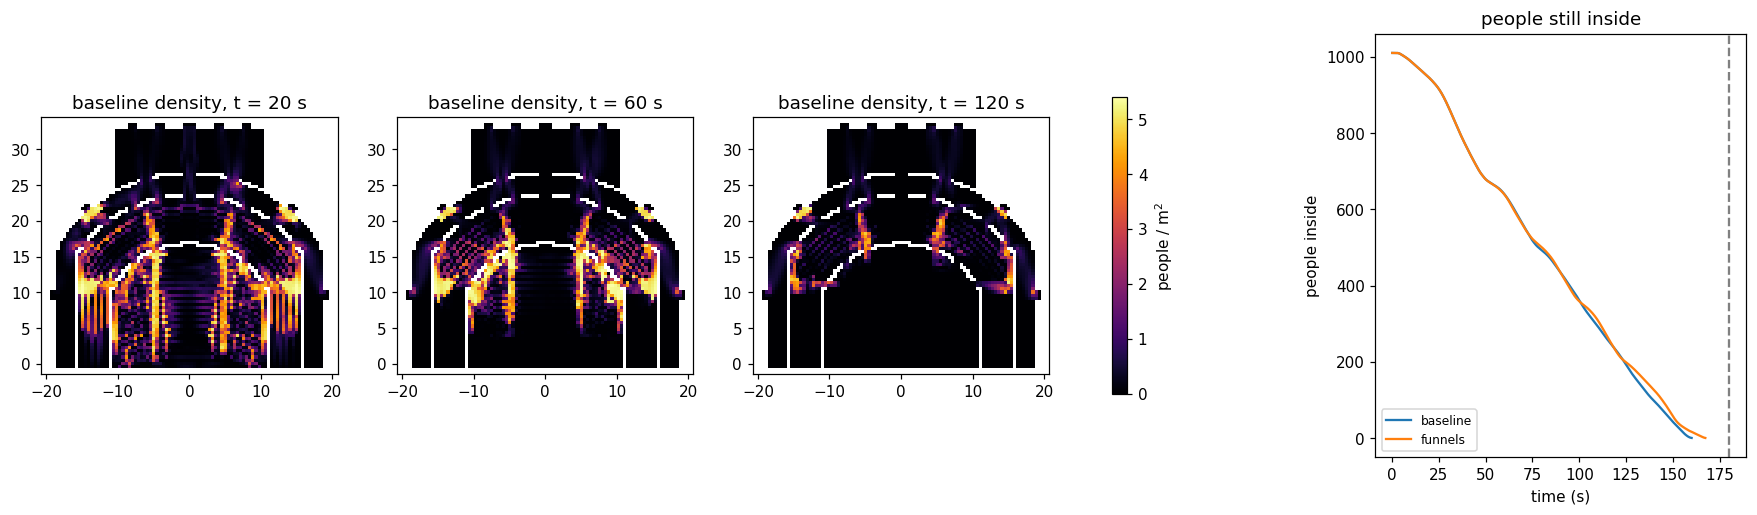
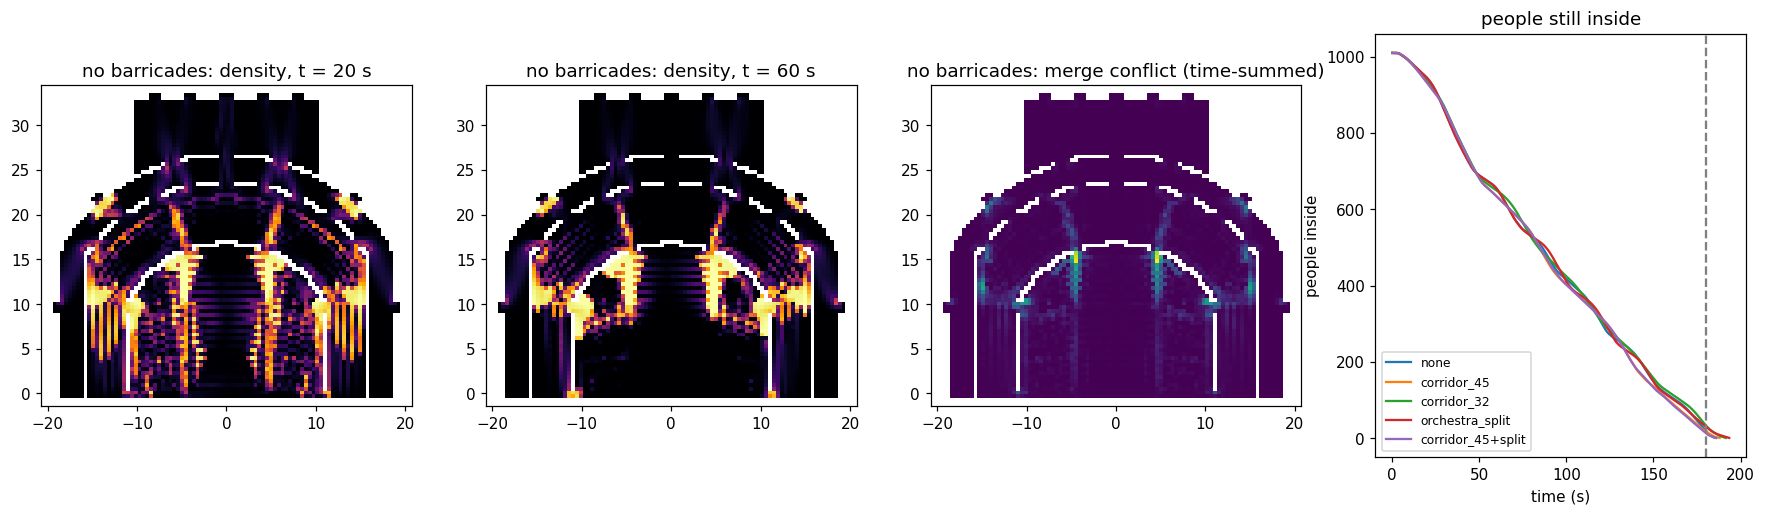
Continuous model: measured access points, stair clogging, merge penalty, barricade layouts
- 6 access points measured from the seating chart (aisle tops, corner stairs, stage steps)
- access points limited by stair capacity with clogging instead of walking speed
- walking speed drops where streams merge or cross
- named barricade layouts in building.py, compared across clogging settings
- per-opening throughput tracking

diff --git a/continuous/continuum.py b/continuous/continuum.py
@@ -9,22 +9,26 @@ The crowd is a density rho(x, t) in people/m^2 that obeys
     |grad phi| = 1 / v_eik(rho, x),  phi = 0 outside   (phi = time to get out)
     d = -grad phi / |grad phi|                  (everyone walks the fastest route)
 
-Crowding enters in three places:
+Crowding enters in four places:
   1. Speed falls with density, separately for each cell type (Greenshields):
-         q(rho) = vf * rho * (1 - rho/RHO_MAX),   vf = V_FREE * T(type)
-     T is the traversability field from the CA (aisle 1.0, legroom 0.8, ...).
+         q(rho) = vf * rho * (1 - rho/RHO_MAX),   vf = V_FREE * T(type) * (1 - merge loss)
+     T is the traversability field from the CA (aisle 1.0, legroom 0.8, seat 0.1).
   2. Flow between two cells is min(demand of the sender, supply of the receiver)
      (Godunov / cell-transmission form). A packed aisle has little supply, so it is
      hard to enter; a packed legroom row has its demand capped, so it empties slowly.
-  3. Every opening (door or access point) passes at most DOOR_FLOW * width people/s.
-     That capacity drops when the crowd in front of it is packed AND has to squeeze in
-     from a wider area (clogging):
-         capacity = DOOR_FLOW * width * (1 - JAM_DROP * jam * squeeze)
+  3. Every opening passes at most FLOW * width people/s (DOOR_FLOW for doors,
+     STAIR_FLOW for the access-point steps). Capacity drops when the crowd in front is
+     packed AND has to squeeze in from a wider area (clogging):
+         capacity = FLOW * width * (1 - JAM_DROP * jam * squeeze)
          jam     = how far the density in front is above critical, 0..1
          squeeze = 1 - width / (width of open floor 2 cells upstream), 0..1
-     Funnel barriers lower `squeeze`. This clogging law is an assumption; JAM_DROP is
-     varied in the output because the benefit of funnels depends on it.
+  4. Merging / crossing streams: where people converge from different directions, the
+     local walking speed drops by up to MERGE_LOSS:
+         merge loss = MERGE_LOSS * (1 - |average direction|)   where streams converge
+     |average direction| (density-weighted over 3x3 cells) is 1 when everyone walks the
+     same way and 0 when streams meet head-on. Barricades help by keeping streams apart.
 
+JAM_DROP and MERGE_LOSS are assumptions; the output varies them.
 The grid is only the numerical mesh: halving DT should barely change results.
 
 Run:  python continuum.py            -> table of egress times, writes egress.png
@@ -40,21 +44,26 @@ from scipy import ndimage
 
 sys.dont_write_bytecode = True
 sys.path.insert(0, str(Path(__file__).resolve().parent.parent))
-from bailey_grid import AISLE, EXIT, LEGROOM, SEAT, WALL      # noqa: E402
-from traversability_field import traversability_field        # noqa: E402
-from building import OUT, build_building                      # noqa: E402
+from bailey_grid import ACCESS, AISLE, EXIT, LEGROOM, SEAT, WALL     # noqa: E402
+from traversability_field import TRAVERSABILITY, traversability_field  # noqa: E402
+from building import BARRICADES, OUT, build_building                   # noqa: E402
 
 # ----------------------------------------------------------------------------
 # PARAMETERS
 # ----------------------------------------------------------------------------
 V_FREE = 1.3        # m/s, free walking speed (Weidmann 1993: 1.34)
 RHO_MAX = 5.4       # people/m^2, jam density (Weidmann 1993)
-DOOR_FLOW = 1.3     # people/(m s), specific flow through an opening (SFPE handbook)
-JAM_DROP = 0.3      # max fraction of capacity lost to clogging
+DOOR_FLOW = 1.3     # people/(m s), specific flow through a door (SFPE handbook)
+STAIR_FLOW = 1.0    # people/(m s), specific flow on stairs (SFPE handbook)
+JAM_DROP = 0.3      # max fraction of an opening's capacity lost to clogging
+MERGE_LOSS = 0.3    # max fraction of walking speed lost where streams meet head-on
 V_EIK_MIN = 0.1     # route planning: a jammed cell still costs finite time
-PHI_EVERY = 1.0     # s, how often people re-plan (recompute phi)
+PHI_EVERY = 1.0     # s, how often people re-plan (recompute phi and merge loss)
 T_END = 900.0       # s, give up after this
 DONE = 0.5          # people left inside when we call it evacuated
+
+# access points are slow because of their capacity (STAIR_FLOW), not their walking speed
+T_VALUES = {**TRAVERSABILITY, ACCESS: 1.0}
 
 RHO_C = RHO_MAX / 2                       # critical density (max flow)
 DIRS = [(0, 1), (0, -1), (1, 0), (-1, 0)]  # (dy, dx): east, west, north, south
@@ -97,40 +106,58 @@ def directions(phi):
             np.maximum(gy, 0) / norm, np.maximum(-gy, 0) / norm]
 
 
+def merge_conflict(rho, dirs):
+    """0..1: how much streams meet from different directions (only where they converge)."""
+    ux, uy = dirs[0] - dirs[1], dirs[2] - dirs[3]
+    mx = ndimage.uniform_filter(rho * ux, 3)
+    my = ndimage.uniform_filter(rho * uy, 3)
+    m = ndimage.uniform_filter(rho, 3)
+    order = np.hypot(mx, my) / np.maximum(m, 1e-9)
+    converging = (np.gradient(ux, axis=1) + np.gradient(uy, axis=0)) < 0
+    return np.where((m > 1e-3) & converging, np.clip(1 - order, 0, 1), 0.0)
+
+
 def opening_fronts(b, vf):
-    """For each opening: the floor in front of it (upstream, within 2 cells) and the
-    squeeze factor 1 - width / width of open floor 2 cells upstream."""
+    """For each opening: its flow per metre, the floor in front of it (upstream, within
+    2 cells), and the squeeze factor 1 - width / width of open floor 2 cells upstream."""
     phi = travel_time(vf, b)
     floor = np.isin(b["grid"], [AISLE, LEGROOM, SEAT])
     out = []
     for mask, width in b["openings"]:
+        flow = STAIR_FLOW if (b["grid"][mask] == ACCESS).all() else DOOR_FLOW
         up = floor & (phi > phi[mask].max())
         d1 = ndimage.binary_dilation(mask, SQ)
         d2 = ndimage.binary_dilation(d1, SQ)
         ring2 = d2 & ~d1 & up
         squeeze = np.clip(1 - width / max(ring2.sum() * b["cell"], 1e-9), 0, 1)
-        out.append((mask, width, d2 & up, squeeze))
+        out.append((mask, flow * width, d2 & up, squeeze))
     return out
 
 
-def simulate(funnels=False, dt=None, jam_drop=JAM_DROP):
-    b = build_building(funnels)
+def simulate(barricades="none", dt=None, jam_drop=JAM_DROP, merge_loss=MERGE_LOSS):
+    b = build_building(barricades)
     grid, cell = b["grid"], b["cell"]
     assert (grid[[0, -1], :] == WALL).all() and (grid[:, [0, -1]] == WALL).all()
     dt = dt or 0.5 * cell / V_FREE                     # CFL condition
 
-    vf = V_FREE * traversability_field(np.minimum(grid, EXIT))   # doors/outside = 1.0
+    vf0 = V_FREE * traversability_field(np.minimum(grid, EXIT), T_VALUES)  # doors/outside = 1
     out_ = grid == OUT
-    fronts = opening_fronts(b, vf)
+    fronts = opening_fronts(b, vf0)
 
     rho = initial_density(b)
     total = rho.sum() * cell**2
-    assert np.isfinite(travel_time(vf, b)[rho > 0]).all(), "someone is walled in"
+    assert np.isfinite(travel_time(vf0, b)[rho > 0]).all(), "someone is walled in"
     t, out, t_phi, history, snaps = 0.0, 0.0, -np.inf, [], {}
+    merge_map = np.zeros(grid.shape)
+    through = np.zeros(len(fronts))                    # people through each opening
+    last_used = np.zeros(len(fronts))                  # s, last time each carried 0.1 p/s
 
     while t < T_END and total - out > DONE:
         if t - t_phi >= PHI_EVERY - 1e-9:              # re-plan routes
-            dirs = directions(travel_time(vf * np.maximum(1 - rho / RHO_MAX, V_EIK_MIN), b))
+            dirs = directions(travel_time(vf0 * np.maximum(1 - rho / RHO_MAX, V_EIK_MIN), b))
+            conflict = merge_conflict(rho, dirs)
+            vf = vf0 * (1 - merge_loss * conflict)
+            merge_map += conflict * rho * PHI_EVERY
             t_phi = t
 
         demand = vf * np.minimum(rho, RHO_C) * (1 - np.minimum(rho, RHO_C) / RHO_MAX)
@@ -142,14 +169,17 @@ def simulate(funnels=False, dt=None, jam_drop=JAM_DROP):
                  for c, (dy, dx) in zip(dirs, DIRS)]
 
         # capacity of each opening, reduced by clogging
-        for mask, width, front, squeeze in fronts:
+        for k, (mask, full_cap, front, squeeze) in enumerate(fronts):
             jam = np.clip((rho[front].mean() - RHO_C) / (RHO_MAX - RHO_C), 0, 1)
-            cap = DOOR_FLOW * width * (1 - jam_drop * jam * squeeze) * dt
+            cap = full_cap * (1 - jam_drop * jam * squeeze) * dt
             entering = [nb(mask, dy, dx) & ~mask for dy, dx in DIRS]
             wanted = sum(f[e].sum() for f, e in zip(flows, entering))
             if wanted > cap:
                 for f, e in zip(flows, entering):
                     f[e] *= cap / wanted
+            through[k] += min(wanted, cap)
+            if min(wanted, cap) > 0.1 * dt:
+                last_used[k] = t
 
         # never send out more people than a cell holds
         sent = sum(flows) / cell**2
@@ -164,12 +194,12 @@ def simulate(funnels=False, dt=None, jam_drop=JAM_DROP):
         t += dt
 
         history.append((t, total - out, rho.max()))
-        for ts in (20, 60, 120):
+        for ts in (20, 60):
             if ts not in snaps and t >= ts:
                 snaps[ts] = rho.copy()
 
     return dict(b=b, history=np.array(history), snaps=snaps, total=total, dt=dt,
-                squeeze=[f[3] for f in fronts])
+                merge_map=merge_map, through=through, last_used=last_used)
 
 
 def summary(r):
@@ -185,15 +215,17 @@ def plot(runs, path=Path(__file__).with_name("egress.png")):
     matplotlib.use("Agg")
     import matplotlib.pyplot as plt
 
-    r0 = runs["baseline"]
+    r0 = runs["none"]
     b, c = r0["b"], r0["b"]["cell"]
     ext = [b["xs"][0] - c / 2, b["xs"][-1] + c / 2, b["ys"][0] - c / 2, b["ys"][-1] + c / 2]
-    fig, axs = plt.subplots(1, len(r0["snaps"]) + 1, figsize=(5 * (len(r0["snaps"]) + 1), 5))
-    for ax, (ts, rho) in zip(axs, r0["snaps"].items()):
-        im = ax.imshow(np.ma.masked_where(b["grid"] == WALL, rho), origin="lower",
-                       extent=ext, cmap="inferno", vmin=0, vmax=RHO_MAX)
-        ax.set_title(f"baseline density, t = {ts} s"); ax.set_aspect("equal")
-    fig.colorbar(im, ax=axs[:-1], shrink=0.7, label="people / m$^2$")
+    walls = b["grid"] == WALL
+    panels = [(f"density, t = {ts} s", rho, "inferno", RHO_MAX) for ts, rho in r0["snaps"].items()]
+    panels.append(("merge conflict (time-summed)", r0["merge_map"], "viridis", None))
+    fig, axs = plt.subplots(1, len(panels) + 1, figsize=(5 * (len(panels) + 1), 5))
+    for ax, (title, a, cmap, vmax) in zip(axs, panels):
+        ax.imshow(np.ma.masked_where(walls, a), origin="lower", extent=ext, cmap=cmap,
+                  vmin=0, vmax=vmax)
+        ax.set_title(f"no barricades: {title}"); ax.set_aspect("equal")
     for name, r in runs.items():
         axs[-1].plot(r["history"][:, 0], r["history"][:, 1], label=name)
     axs[-1].axvline(180, ls="--", c="gray")
@@ -204,17 +236,18 @@ def plot(runs, path=Path(__file__).with_name("egress.png")):
 
 if __name__ == "__main__":
     runs = {}
-    print(f"{'run':28s} {'50% out':>8s} {'90% out':>8s} {'all out':>8s} {'peak rho':>9s}")
-    for jd in (0.0, JAM_DROP, 0.6):
-        for funnels in (False, True):
-            name = f"{'funnels' if funnels else 'baseline'}, JAM_DROP={jd}"
-            r = simulate(funnels, jam_drop=jd)
-            print(f"{name:28s} " + "{:7.0f}s {:7.0f}s {:7.0f}s {:9.2f}".format(*summary(r)))
-            if jd == JAM_DROP:
-                runs["funnels" if funnels else "baseline"] = r
-    print("access-point squeeze, baseline:", np.round(runs["baseline"]["squeeze"][9:15], 2))
-    print("access-point squeeze, funnels: ", np.round(runs["funnels"]["squeeze"][9:15], 2))
+    settings = [(0.0, 0.0), (JAM_DROP, MERGE_LOSS), (0.6, 0.6)]
+    print(f"{'barricades':14s} {'JAM_DROP':>8s} {'MERGE_LOSS':>10s} "
+          f"{'50% out':>8s} {'90% out':>8s} {'all out':>8s} {'peak rho':>9s}")
+    for jd, ml in settings:
+        for name in BARRICADES:
+            r = simulate(name, jam_drop=jd, merge_loss=ml)
+            print(f"{name:14s} {jd:8.1f} {ml:10.1f} "
+                  + "{:7.0f}s {:7.0f}s {:7.0f}s {:9.2f}".format(*summary(r)))
+            if (jd, ml) == (JAM_DROP, MERGE_LOSS):
+                runs[name] = r
     plot(runs)
     if "--dt-check" in sys.argv:
-        r = simulate(dt=runs["baseline"]["dt"] / 2)
-        print(f"{'baseline at dt/2':28s} " + "{:7.0f}s {:7.0f}s {:7.0f}s {:9.2f}".format(*summary(r)))
+        r = simulate(dt=runs["none"]["dt"] / 2)
+        print(f"{'none, dt/2':14s} {JAM_DROP:8.1f} {MERGE_LOSS:10.1f} "
+              + "{:7.0f}s {:7.0f}s {:7.0f}s {:9.2f}".format(*summary(r)))

diff --git a/continuous/building.py b/continuous/building.py
@@ -13,13 +13,13 @@ because the model caps the flow through each one (see continuum.py).
 All corridor, foyer and door dimensions below are rough estimates read off the
 first-floor plan (scale from the 31 m auditorium width); replace with measurements.
 
-funnels=True adds V-shaped barriers on the orchestra side of each access point.
+barricades=<name> adds the wall segments listed under that name in BARRICADES.
 """
 
 import numpy as np
 from scipy import ndimage
 
-from bailey_grid import (ACCESS, ACCESS_WIDTH, AISLE, DOOR_WIDTH, EXIT, HALF_WIDTH,
+from bailey_grid import (ACCESS, AISLE, DOOR_WIDTH, LEGROOM, EXIT, HALF_WIDTH,
                          LOGE_CENTER_Y, OUTER_R, STAGE_Y, WALL, build_grid)
 
 DOOR, OUT = 6, 7               # new cell types (bailey_grid uses 0..5)
@@ -31,11 +31,34 @@ FOYER_DOOR_X, FOYER_DOOR_W = [-6.0, 0.0, 6.0], 1.8      # corridor -> foyer
 FRONT_DOOR_X, FRONT_DOOR_W = [-8.0, -4.0, 0.0, 4.0, 8.0], 1.5   # foyer -> outside
 PORTICO_PHI, PORTICO_DOOR_W = [-75.0, -40.0, 40.0, 75.0], 1.2   # corridor -> portico
 
-FUNNEL_LEN = 1.5               # m, length of each funnel wall
-FUNNEL_SPREAD = 35.0           # deg, how far each wall opens away from the opening's axis
+# The 6 orchestra -> mezzanine access points, measured on the seating chart (all are steps).
+# (x, y, width): x, y in bailey_grid coordinates (m), width in m.
+ACCESS_POINTS = [(-4.4, 16.4, 1.35), (4.4, 16.4, 1.35),   # tops of the two main aisles (4'-5")
+                 (-10.9, 9.6, 1.1), (10.9, 9.6, 1.1),     # stairs where the barrier turns straight
+                 (-10.9, 0.0, 1.05), (10.9, 0.0, 1.05)]   # steps by the stage up to the boxes
 
 
-def build_building(funnels=False):
+
+def across_corridor(phi_deg):
+    """Wall segment straight across the corridor at angle phi (deg from the axis)."""
+    t = np.radians(phi_deg)
+    r0, r1 = OUTER_R + 0.2, OUTER_R + 0.6 + CORR_W
+    return (r0 * np.sin(t), LOGE_CENTER_Y + r0 * np.cos(t),
+            r1 * np.sin(t), LOGE_CENTER_Y + r1 * np.cos(t))
+
+
+# Barricades: straight wall segments (x0, y0, x1, y1) in m, chosen by name.
+SIDE_AISLE_SPLIT = [(-9.3, 5.0, -10.8, 5.0), (9.3, 5.0, 10.8, 5.0)]   # front half -> stage steps
+BARRICADES = {
+    "none": [],
+    "corridor_45": [across_corridor(-45), across_corridor(45)],       # outer doors -> outer portico
+    "corridor_32": [across_corridor(-32), across_corridor(32)],       # outer 4 doors -> portico
+    "orchestra_split": SIDE_AISLE_SPLIT,
+    "corridor_45+split": [across_corridor(-45), across_corridor(45)] + SIDE_AISLE_SPLIT,
+}
+
+
+def build_building(barricades="none"):
     g = build_grid()
     cell = g["cell"]
 
@@ -70,10 +93,11 @@ def build_building(funnels=False):
     for k in range(1, 10):                                 # 9 mezzanine doors
         lab, _ = ndimage.label(g["grid"] == EXIT, np.ones((3, 3)))
         add(np.pad(lab == k, pad), DOOR_WIDTH)
-    lab, n = ndimage.label(g["grid"] == ACCESS, np.ones((3, 3)))
-    access = [np.pad(lab == k, pad) for k in range(1, n + 1)]
-    for m in access:                                       # 6 access points
-        add(m, ACCESS_WIDTH, ACCESS)
+    orch_ = orch & hall
+    barrier = ndimage.binary_dilation(orch_, np.ones((3, 3))) & hall & ~orch_
+    grid[grid == ACCESS] = WALL                            # drop bailey_grid's placeholders
+    for x0, y0, w in ACCESS_POINTS:                        # 6 measured access points
+        add(barrier & (np.hypot(X - x0, Y - y0) <= max(w / 2, cell)), w, ACCESS)
 
     grid[corridor | foyer] = AISLE
     for x0 in FOYER_DOOR_X:
@@ -88,18 +112,11 @@ def build_building(funnels=False):
         add(across & outer_wall & ~foyer, PORTICO_DOOR_W)
         grid[across & (d > 2 * cell + CORR_W) & (d <= 3 * cell + CORR_W)] = OUT
 
-    if funnels:
-        for m in access:
-            ax_, ay_ = X[m].mean(), Y[m].mean()
-            n_ = -np.array([ax_, ay_ - LOGE_CENTER_Y]); n_ /= np.hypot(*n_)  # into orchestra
-            t_ = np.array([n_[1], -n_[0]])
-            s = np.radians(FUNNEL_SPREAD)
-            for sign in (-1, 1):
-                p0 = np.array([ax_, ay_]) + sign * t_ * (ACCESS_WIDTH / 2 + cell / 2)
-                u = np.cos(s) * n_ + sign * np.sin(s) * t_
-                along = np.clip((X - p0[0]) * u[0] + (Y - p0[1]) * u[1], 0, FUNNEL_LEN)
-                dist = np.hypot(X - p0[0] - along * u[0], Y - p0[1] - along * u[1])
-                grid[(dist <= 0.75 * cell) & orch & ~occupied & (grid != ACCESS)] = WALL
+    for x0, y0, x1, y1 in BARRICADES[barricades]:
+        u = np.array([x1 - x0, y1 - y0]); L = np.hypot(*u); u /= L
+        along = np.clip((X - x0) * u[0] + (Y - y0) * u[1], 0, L)
+        dist = np.hypot(X - x0 - along * u[0], Y - y0 - along * u[1])
+        grid[(dist <= 0.75 * cell) & np.isin(grid, [AISLE, LEGROOM]) & ~occupied] = WALL
 
     return dict(grid=grid, occupied=occupied, orch=orch, xs=xs, ys=ys, cell=cell,
                 openings=openings)

diff --git a/continuous/README.md b/continuous/README.md
@@ -6,12 +6,12 @@ crowding (an eikonal equation, solved with fast marching). Equations: top of `co
 
 | File | What |
 |---|---|
-| `building.py` | First floor out to the street: reuses `../bailey_grid.py` and adds the corridor, foyer, 3 foyer doors, 5 front doors, 4 portico doors, and optional funnel barriers at the 6 orchestra access points |
-| `continuum.py` | The model; runs baseline vs funnels for three clogging strengths |
+| `building.py` | First floor out to the street: reuses `../bailey_grid.py` and adds the corridor, foyer, 3 foyer doors, 5 front doors, 4 portico doors, the 6 orchestra access points measured from the seating chart, and the barricade layouts (`BARRICADES`) |
+| `continuum.py` | The model; runs every barricade layout at three clogging / merge-loss settings |
 
 ```
 pip install -r requirements.txt
-python continuum.py             # table of egress times, writes egress.png (~20 s)
+python continuum.py             # table of egress times, writes egress.png (~45 s)
 python continuum.py --dt-check  # also repeats the baseline at half the time step
 ```
 
@@ -20,17 +20,32 @@ python continuum.py --dt-check  # also repeats the baseline at half the time ste
 |---|---|
 | Packed space is slower | v = V_FREE · T(cell type) · (1 − ρ/RHO_MAX), T from `../traversability_field.py` |
 | Packed aisle hard to enter / packed legroom hard to leave | Flow between cells = min(sender's demand, receiver's supply) |
-| Doors and access points | Capacity DOOR_FLOW · width, reduced by up to JAM_DROP when the crowd in front is packed and has to squeeze in from a wider area (assumed clogging law) |
+| Doors and access-point steps | Capacity = DOOR_FLOW (1.3) or STAIR_FLOW (1.0) people/(m·s) × width, reduced by up to JAM_DROP when the crowd in front is packed and squeezing in (clogging) |
+| Merging / crossing streams | Walking speed drops by up to MERGE_LOSS where streams converge from different directions |
 | Re-planning around crowds | Routes recomputed every PHI_EVERY s from current density |
 
-## Results so far (first floor only, 1,010 people, door/corridor sizes are estimates)
-| Run | 50% out | 90% out | All out |
-|---|---|---|---|
-| Baseline | 77 s | 139 s | 160 s |
-| Funnels at access points | 79 s | 144 s | 167 s |
-| Baseline at dt/2 (convergence) | 76 s | 135 s | 155 s |
+## Access points (measured on the seating chart; all are steps)
+| Where | x, y (m) | Width |
+|---|---|---|
+| Tops of the two main aisles | ±4.4, 16.4 | 1.35 m (4'-5" on chart) |
+| Stairs where the barrier turns straight | ±10.9, 9.6 | 1.1 m |
+| Steps by the stage up to the boxes | ±10.9, 0.0 | 1.05 m |
 
-- Corridor and foyer stay nearly empty: the bottlenecks are the 6 orchestra access points and
-  the route to the side portico doors.
-- Funnels made it 5–8 s slower at every clogging strength: they take floor space, and in this
-  model the access points are limited by walking speed (T = 0.6), not by clogging.
+## Results (first floor only, 1,010 people; corridor, foyer and portico doors are estimates)
+All-out times in seconds:
+
+| Barricades | no clogging/merging | JAM_DROP = MERGE_LOSS = 0.3 | both 0.6 |
+|---|---|---|---|
+| none | 187 | 186 | 201 |
+| corridor_45 (outer mezz doors → outer portico doors) | 182 | 188 | 194 |
+| corridor_32 (outer 4 mezz doors → portico) | 185 | 191 | 198 |
+| orchestra_split (front of side sections → stage steps) | 182 | 193 | 198 |
+| corridor_45 + split | 182 | 186 | 194 |
+
+- Numerical error is about 3 s (baseline at half the time step: 183 s vs 186 s), so most
+  differences above are within noise. corridor_45 has the best 90%-out time in every setting
+  and helps most when clogging is strong (201 → 194 s).
+- Load is very uneven: the outer mezzanine doors (±50°) and the portico doors at ±40° run at
+  capacity until the end (≈267 people each through the ±40° doors), while the centre mezzanine,
+  foyer and front doors are idle after ≈40 s. The result depends heavily on the estimated
+  portico door positions and widths; measure them next.
